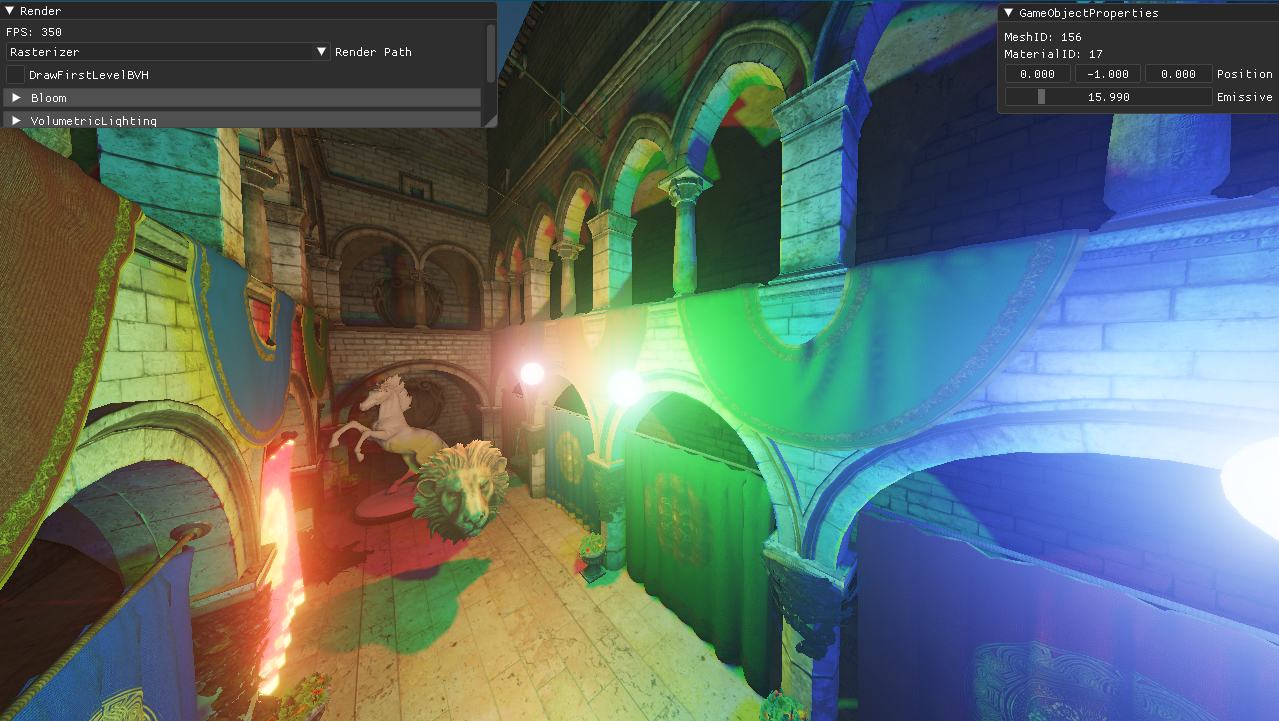
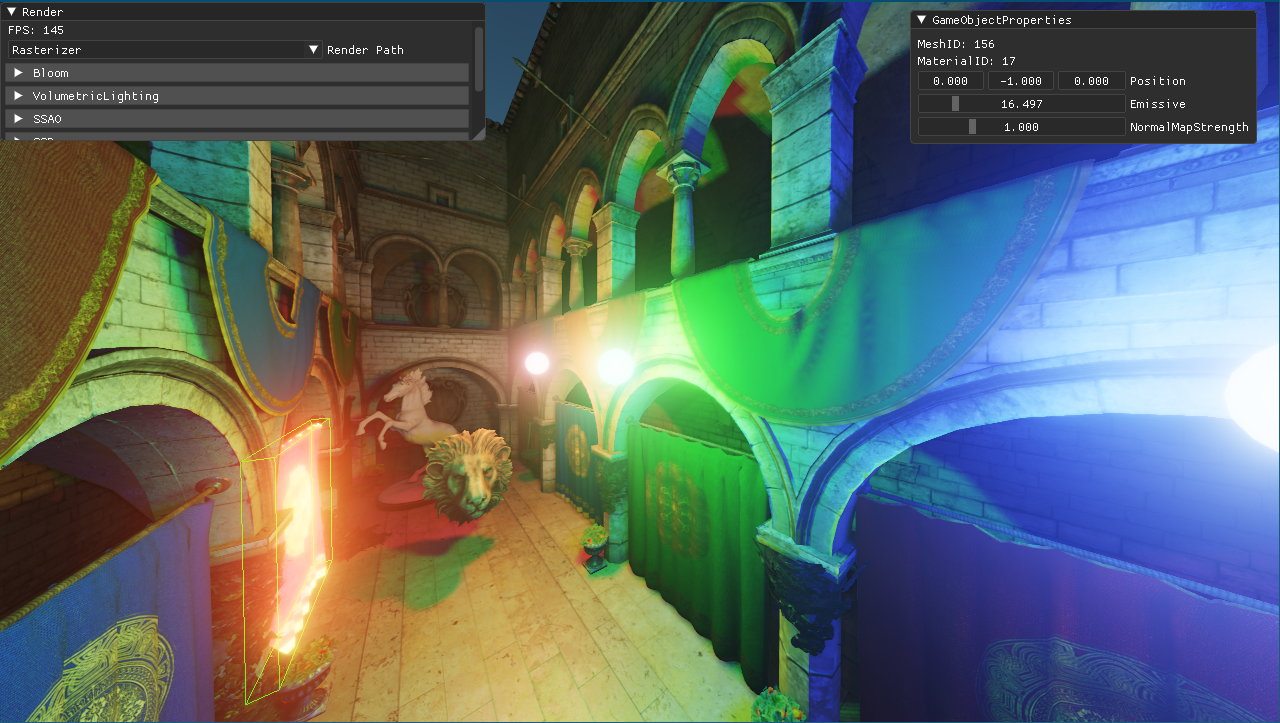
implements TAA, updates readme, small things

diff --git a/IDKEngine/src/Render/Forward.cs b/IDKEngine/src/Render/Forward.cs
@@ -203,13 +203,14 @@ namespace IDKEngine.Render
                 (isPing ? taaPing : taaPong).BindToImageUnit(0, 0, false, 0, TextureAccess.ReadWrite, SizedInternalFormat.Rgba16f);
                 (isPing ? taaPong : taaPing).BindToUnit(0);
                 Velocity.BindToUnit(1);
+                Depth.BindToUnit(2);
                 GL.DispatchCompute((taaPing.Width + 8 - 1) / 8, (taaPing.Height + 4 - 1) / 4, 1);
                 GL.MemoryBarrier(MemoryBarrierFlags.TextureFetchBarrierBit);
             }
 
             if (RenderMeshAABBIndex >= 0)
             {
-                GL.Disable(EnableCap.DepthTest);
+                GL.DepthFunc(DepthFunction.Always);
                 GL.Disable(EnableCap.CullFace);
                 GL.PolygonMode(MaterialFace.FrontAndBack, PolygonMode.Line);
 
@@ -218,7 +219,7 @@ namespace IDKEngine.Render
 
                 GL.PolygonMode(MaterialFace.FrontAndBack, PolygonMode.Fill);
                 GL.Enable(EnableCap.CullFace);
-                GL.Enable(EnableCap.DepthTest);
+                GL.DepthFunc(DepthFunction.Less);
             }
 
             isPing = !isPing;

diff --git a/IDKEngine/src/Render/Gui.cs b/IDKEngine/src/Render/Gui.cs
@@ -309,7 +309,7 @@ namespace IDKEngine.Render
         public void Update(Application window)
         {
             ImGuiIOPtr io = ImGui.GetIO();
-            if (!window.IsPathTracing && window.MouseState[MouseButton.Left] == InputState.Touched && !io.WantCaptureKeyboard && !io.WantCaptureMouse)
+            if (!window.IsPathTracing && window.MouseState.CursorMode == CursorModeValue.CursorNormal && window.MouseState[MouseButton.Left] == InputState.Touched && !io.WantCaptureKeyboard && !io.WantCaptureMouse)
             {
                 Vector2i point = new Vector2i((int)window.MouseState.Position.X, (int)window.MouseState.Position.Y);
                 point.Y = window.Size.Y - point.Y;

diff --git a/IDKEngine/src/Application.cs b/IDKEngine/src/Application.cs
@@ -197,7 +197,7 @@ namespace IDKEngine
             gui = new Gui(Size.X, Size.Y);
             gui.ImGuiController.IsIgnoreMouseInput = true;
 
-            camera = new Camera(new Vector3(3.68f, 7.7f, 2.53f), new Vector3(0.0f, 1.0f, 0.0f), -128.3f, -1.6f, 0.1f, 0.25f);
+            camera = new Camera(new Vector3(6.252f, 9.49f, -1.96f), new Vector3(0.0f, 1.0f, 0.0f), -183.5f, 0.5f, 0.1f, 0.25f);
 
             Model sponza = new Model("res/models/OBJSponza/sponza.obj");
             for (int i = 0; i < sponza.Meshes.Length; i++) // 0.0145f

diff --git a/IDKEngine/src/GLSLTypes/GLSLTaaData.cs b/IDKEngine/src/GLSLTypes/GLSLTaaData.cs
@@ -2,7 +2,7 @@
 {
     unsafe struct GLSLTaaData
     {
-        public const int GLSL_MAX_TAA_UBO_VEC2_JITTER_COUNT = 32; // also adjust in shader
+        public const int GLSL_MAX_TAA_UBO_VEC2_JITTER_COUNT = 18; // also adjust in shader
 
         // Thanks again to C# for not letting me declare fixed size array of unmanaged custom struct (Vector2 I would like to have instead)
         public fixed float Jitter[GLSL_MAX_TAA_UBO_VEC2_JITTER_COUNT * 2];

diff --git a/Readme.md b/Readme.md
@@ -15,6 +15,7 @@ Feature list:
  - Single pass Vertex Layered Rendering for point shadows
  - GPU accelerated Frustum Culling for shadows and camera
  - Ray marched Volumetric Lighting
+ - Temporal Anti Aliasing
  - Fast CoD-Modern-Warfare Bloom implementation
  - Multi Draw Indirect + Bindless Texture system that draws every loaded model in one draw call
  - Path Tracer (early progress and no bvh yet so really really slow)
